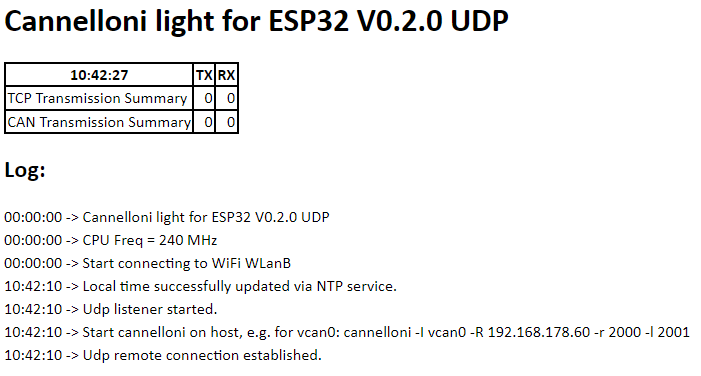
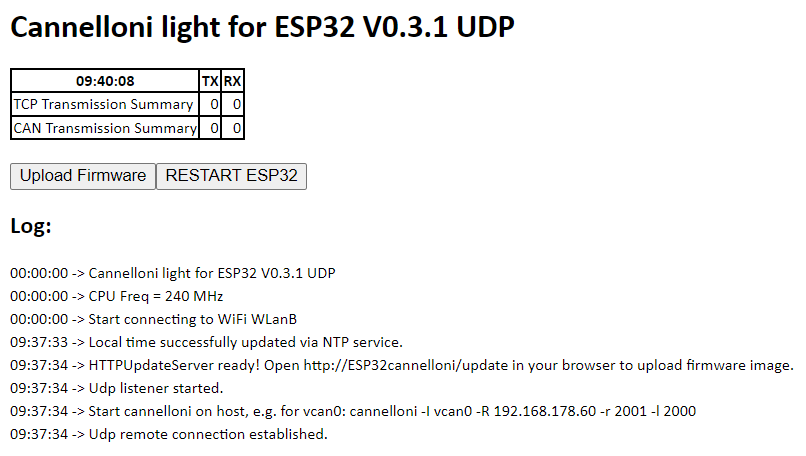
Updated README

Changed region(s): [[0.0, 0.5559, 0.9886, 0.9654], [0.0, 0.1463, 0.3894, 0.5266], [0.0, 0.0293, 0.7489, 0.117]]

diff --git a/src/main.cpp b/src/main.cpp
@@ -63,9 +63,9 @@ SOFTWARE.
                             // https://github.com/sandeepmistry/arduino-CAN/blob/master/README.md
 
 #ifdef UDP_PROTOCOL
-const char* PGM_INFO = "Cannelloni light for ESP32 V0.3.0 UDP";
+const char* PGM_INFO = "Cannelloni light for ESP32 V0.3.1 UDP";
 #else
-const char* PGM_INFO = "Cannelloni light for ESP32 V0.3.0 TCP";
+const char* PGM_INFO = "Cannelloni light for ESP32 V0.3.1 TCP";
 #endif
 
 #ifdef UDP_PROTOCOL
@@ -587,7 +587,10 @@ void sendCanDataToHost() {
         htmlLog(cbuf);
         Serial.println(cbuf);
         udpRemote.close();    // Close UDP connection
-        delay(5000);
+        for (int i=0;i<500;i++) {
+          loopWebServer();
+          delay(10);
+        }
         server.client().stop();
         ESP.restart();
       }
@@ -628,7 +631,10 @@ void sendCanDataToHost() {
         htmlLog(cbuf);
         Serial.println(cbuf);
         client.stop();    // Close connection to server
-        delay(5000);
+        for (int i=0;i<500;i++) {
+          loopWebServer();
+          delay(10);
+        }
         server.client().stop();
         ESP.restart();
       }

diff --git a/README.md b/README.md
@@ -39,7 +39,7 @@ To build and flash **VSCode with PlatformIO** or **Arduino IDE** can be used.
     * check pin assignments for connection to can transceiver
     * adapt CAN baudrate
     * limit range of CAN IDs to what you really need (speed and resources of a ESP32 are limited!). 
-* Build the project and flash it to the ESP32
+* Build the project and flash it to the ESP32. In the web interface an option for OTA update is available. It's also possible to trigger a restart of ESP32.
 * Start virtual CAN bus and cannelloni server on you linux host. Please refer to cannelloni project for details.
 * When using **UDP protocol**:
     * Power on the ESP32
